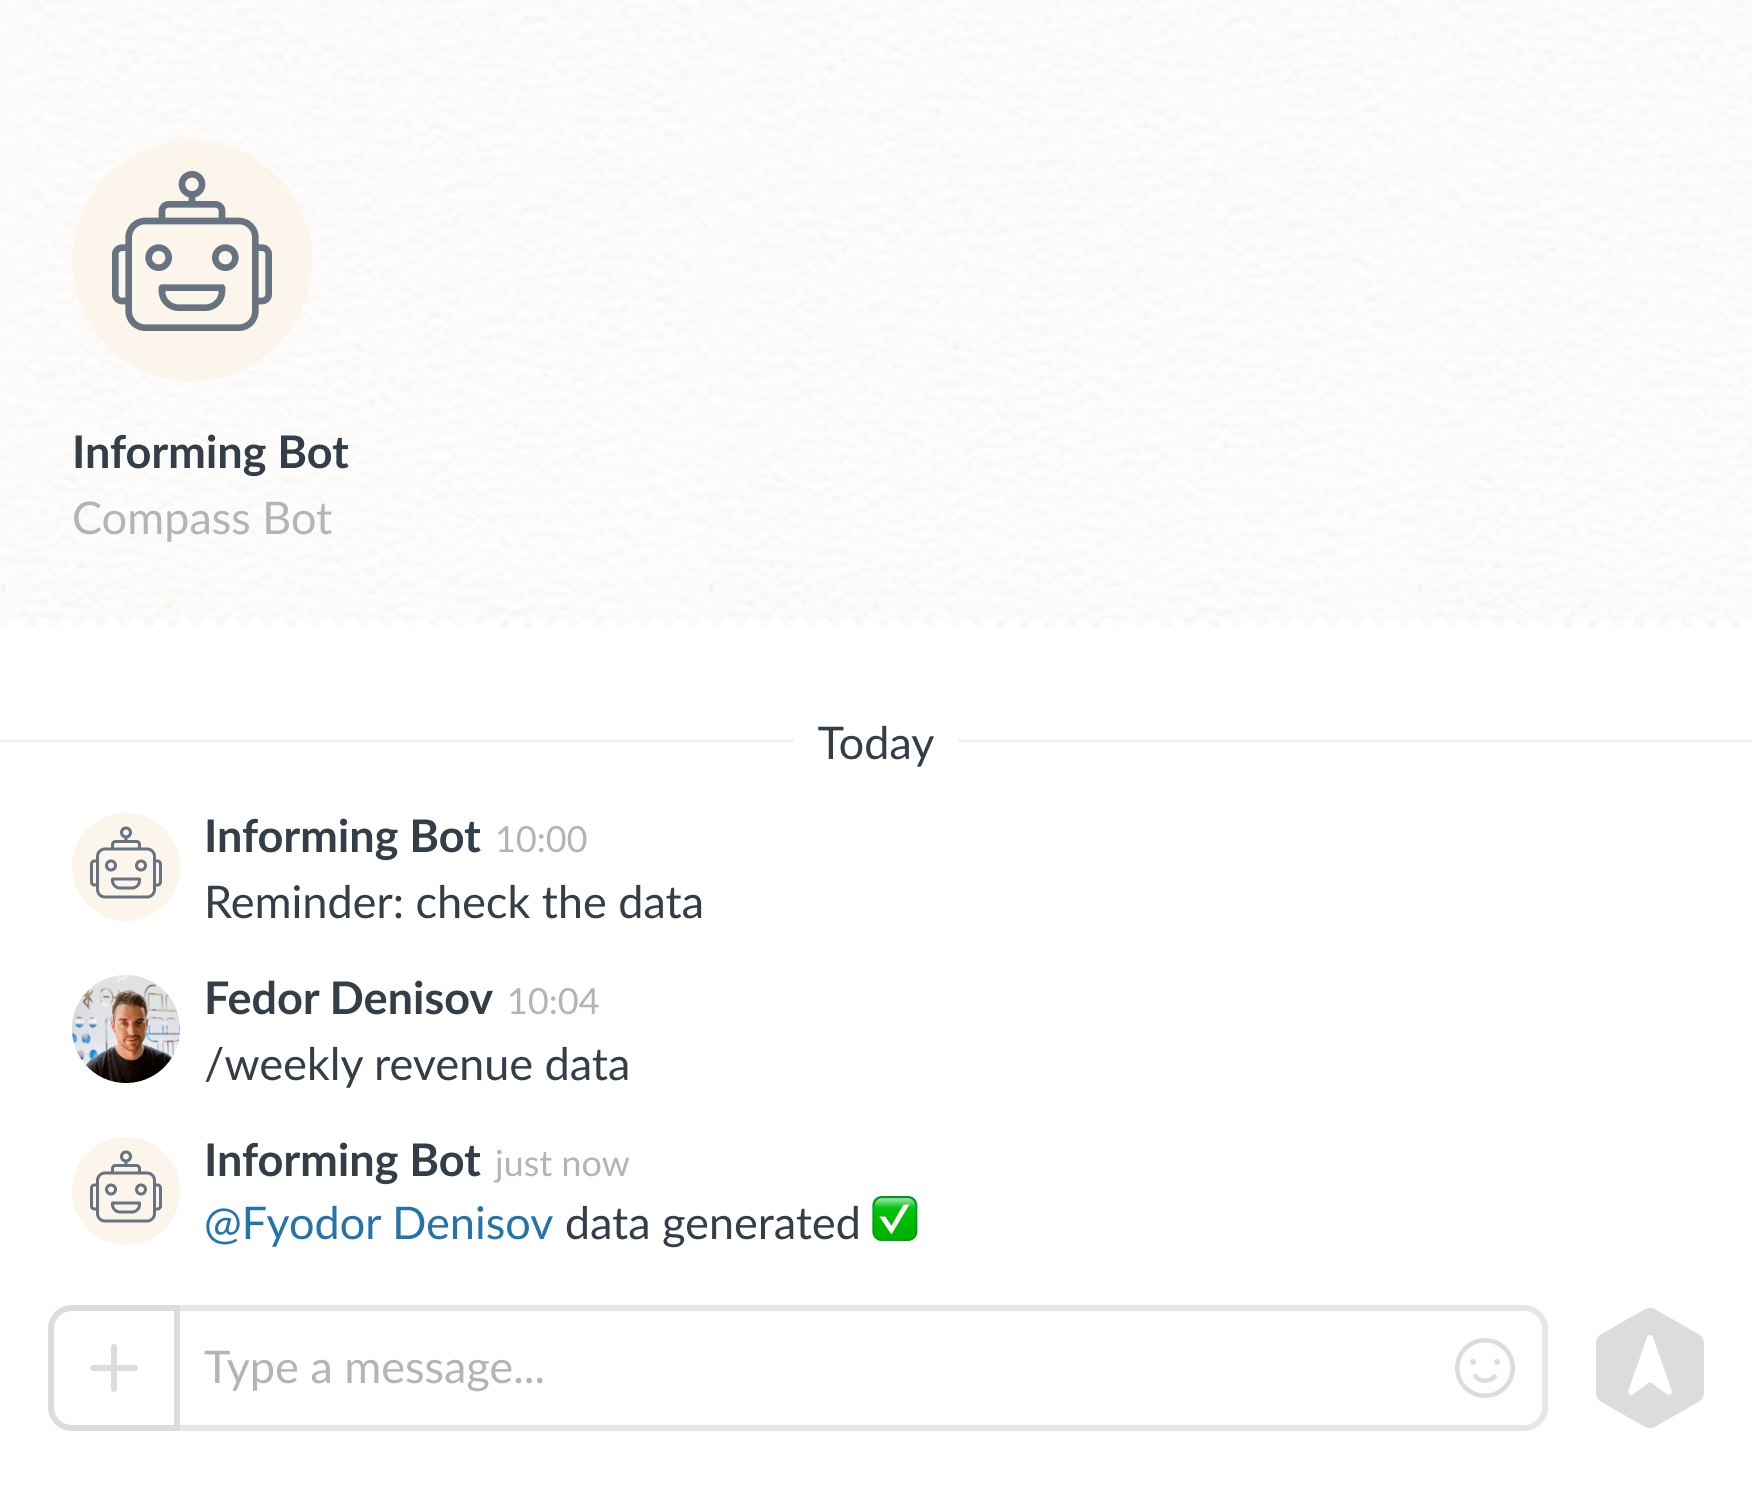
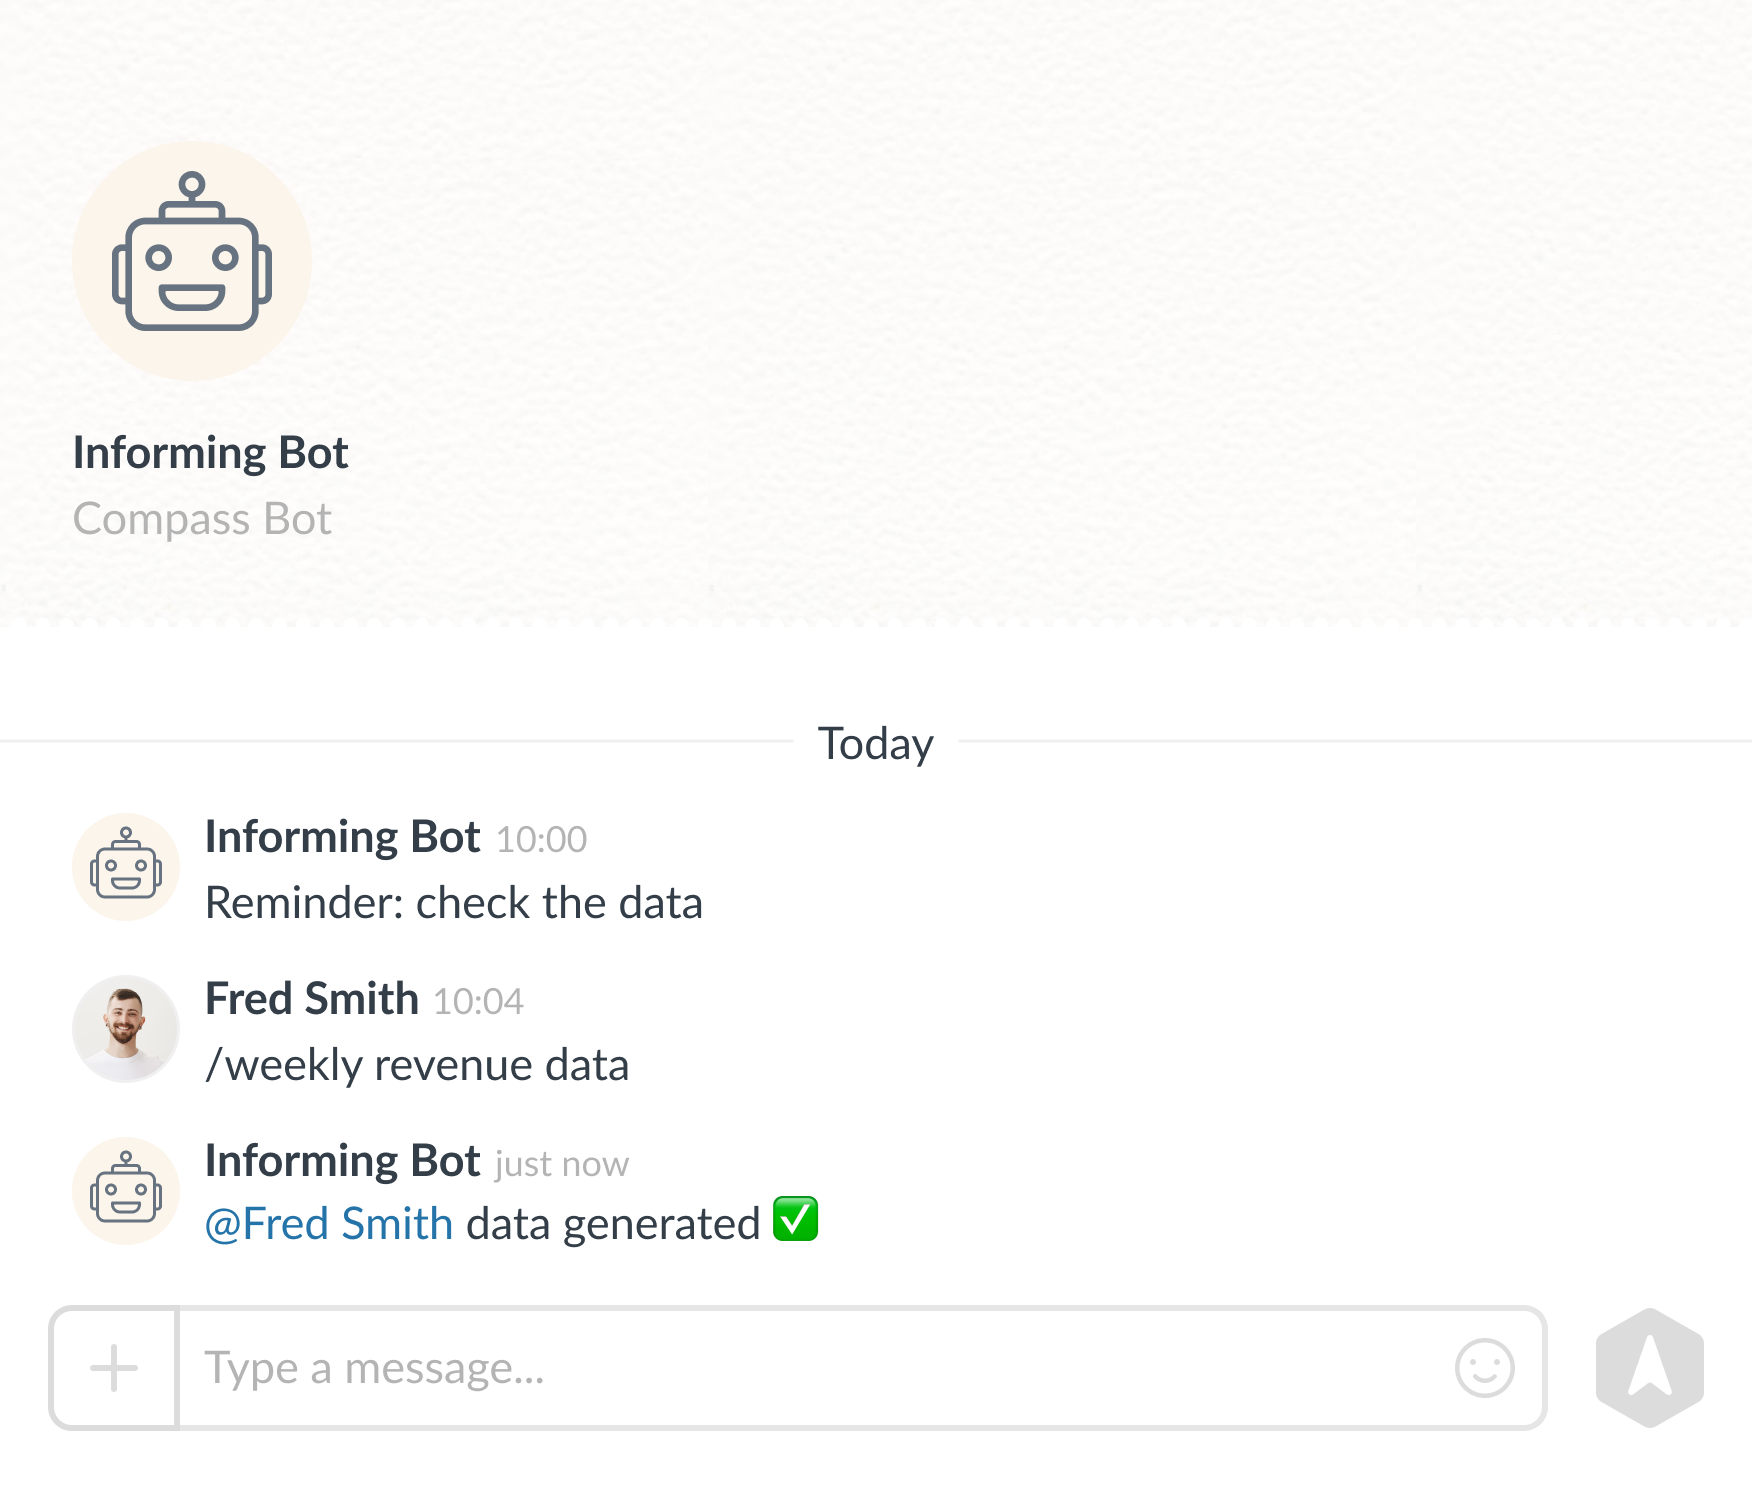
[27.04.23]

Changed region(s): [[0.1541, 0.8021, 0.524, 0.833], [0.1233, 0.6479, 0.339, 0.6787], [0.0308, 0.6479, 0.1233, 0.7404]]

diff --git a/README.md b/README.md
@@ -1002,6 +1002,7 @@ URL for the request: `https://file1.getcompass.com/api/userbot/files/upload`
 - no more than 50 files are available for upload in 5 minutes
 
 After a successful file loading (synchronous execution - the file will be loaded immediately) the response from the method will return:
+
 file_id (string) — unique identifier of the loaded file.
 
 <details><summary>The example of the result of completing the request</summary>
@@ -1045,7 +1046,7 @@ To do this, the message text must have the format of:<br>
 `["@"|<numeric identifier user_id>|<member name>|]`
 
 With the example above, let's assume that Fred Smith has a member ID 345. To get the message like in the example the message test sent by the bot must be of the following format:<br>
-`["@"|345|Fyodor Denisov] data generated Insert tag (Option+1)✅`
+`["@"|345|Fred Smith] data generated Insert tag (Option+1)✅`
 
 ---
 
